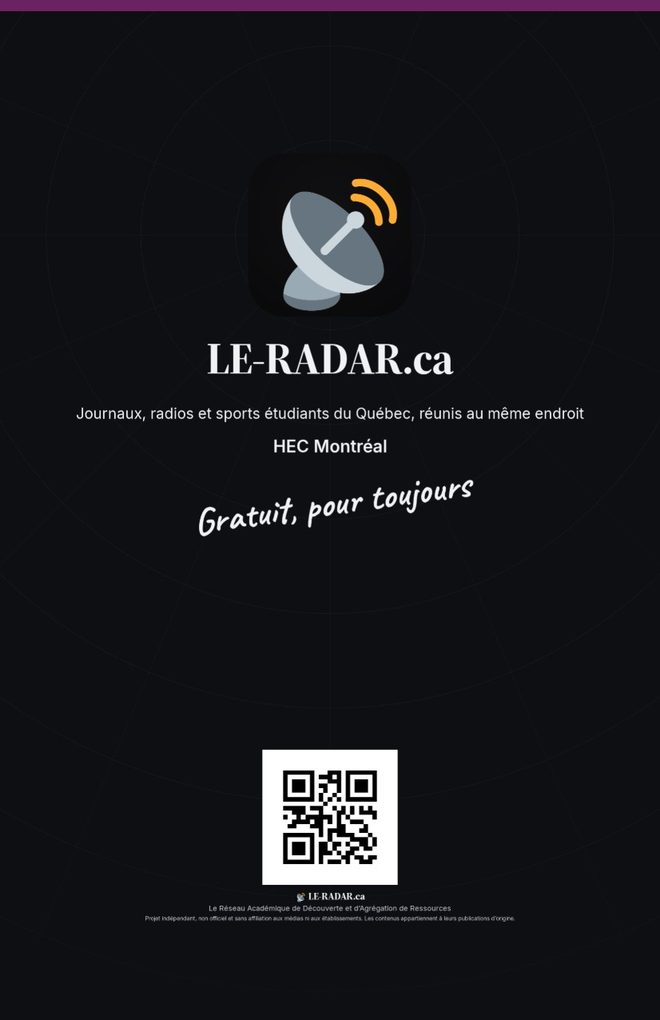
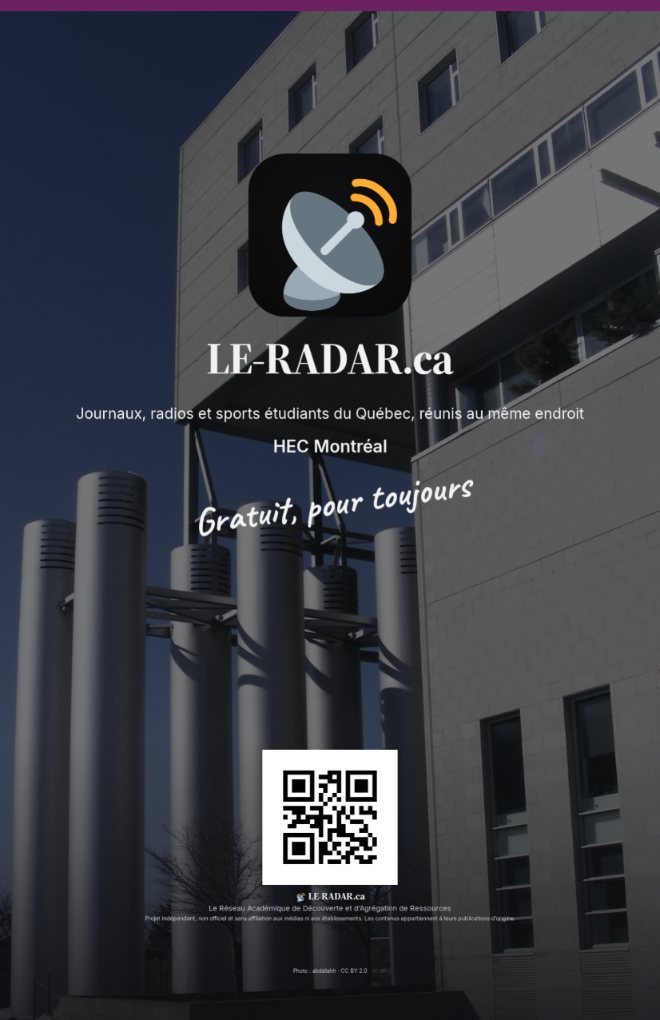
kit-media: rôles clairs (Créer la vôtre / Modèles prêts à imprimer), marges testées, aperçus avec photo
- Deux blocs titrés : les pastilles ouvrent le studio pour un campus ; les
  filtres trient les modèles. Plus de doublon apparent.
- Test de mise en page : marge gauche minimale (12 px mobile, 24 px sinon)
  et aucun débordement à droite.
- Export des exemples : photo hors cache téléchargée au lieu d’être bloquée
  (Laval et HEC sortaient sans photo).

diff --git a/kit-media/index.html b/kit-media/index.html
@@ -96,9 +96,12 @@
       <section class="kit-section" id="affiches">
         <h2>Affiches</h2>
         <p>Pour les babillards de campus. Composez la vôtre, ou téléchargez le modèle générique.</p>
+        <div class="kit-block" role="group" aria-labelledby="kit-compose-title">
+        <h3 class="kit-block__title" id="kit-compose-title">Créer la vôtre</h3>
+        <p class="kit-block__lead">Le studio compose une affiche à votre campus, avec sa photo, en PDF 600 dpi.</p>
         <p class="kit-cta"><a class="kit-cta__btn" href="../affiches/">Composer une affiche</a></p>
-        <p class="kit-campus-lead">Choisir un campus :</p>
-        <nav class="kit-campus" aria-label="Campus">
+        <p class="kit-campus-lead" id="kit-campus-lead">Ou ouvrir le studio pour un campus :</p>
+        <nav class="kit-campus" aria-labelledby="kit-campus-lead">
           <a href="../affiches/?campus=laval">Université Laval</a>
           <a href="../affiches/?campus=mcgill">Université McGill</a>
           <a href="../affiches/?campus=udem">Université de Montréal</a>
@@ -118,7 +121,11 @@
           <a href="../affiches/?campus=poly">Polytechnique</a>
           <a href="../affiches/?campus=hec">HEC Montréal</a>
         </nav>
-        <div class="kit-filter" id="kit-poster-filter" role="group" aria-label="Filtrer les affiches par établissement" hidden></div>
+        </div>
+        <div class="kit-block" role="group" aria-labelledby="kit-models-title">
+        <h3 class="kit-block__title" id="kit-models-title">Modèles prêts à imprimer</h3>
+        <p class="kit-campus-lead" id="kit-filter-lead">Filtrer les modèles par établissement :</p>
+        <div class="kit-filter" id="kit-poster-filter" role="group" aria-labelledby="kit-filter-lead" hidden></div>
         <p class="kit-filter__count" id="kit-poster-count" aria-live="polite"></p>
         <div class="kit-grid kit-grid--poster" id="kit-poster-grid" data-asset-base="../assets/kit/affiches/" data-compose="../affiches/">
           <article class="kit-card kit-card--poster kit-card--feature" data-campus="generique">
@@ -135,6 +142,7 @@
               </p>
             </div>
           </article>
+        </div>
         </div>
       </section>
 

diff --git a/kit-media.css b/kit-media.css
@@ -234,6 +234,22 @@
   color: var(--accent);
 }
 }
+.kit-block {
+  margin: 0 0 28px;
+  padding-top: 18px;
+  border-top: 1px solid var(--rule);
+}
+.kit-block__title {
+  margin: 0 0 6px;
+  font-family: var(--serif);
+  font-size: 1.1rem;
+}
+.kit-block__lead {
+  margin: 0 0 12px;
+  color: var(--muted);
+  font-size: 0.95rem;
+}
+
 /* Galerie d’affiches : cartes de même gabarit, aperçu 11 × 17 entier, boutons en pied de carte. */
 .kit-filter {
   display: flex;
